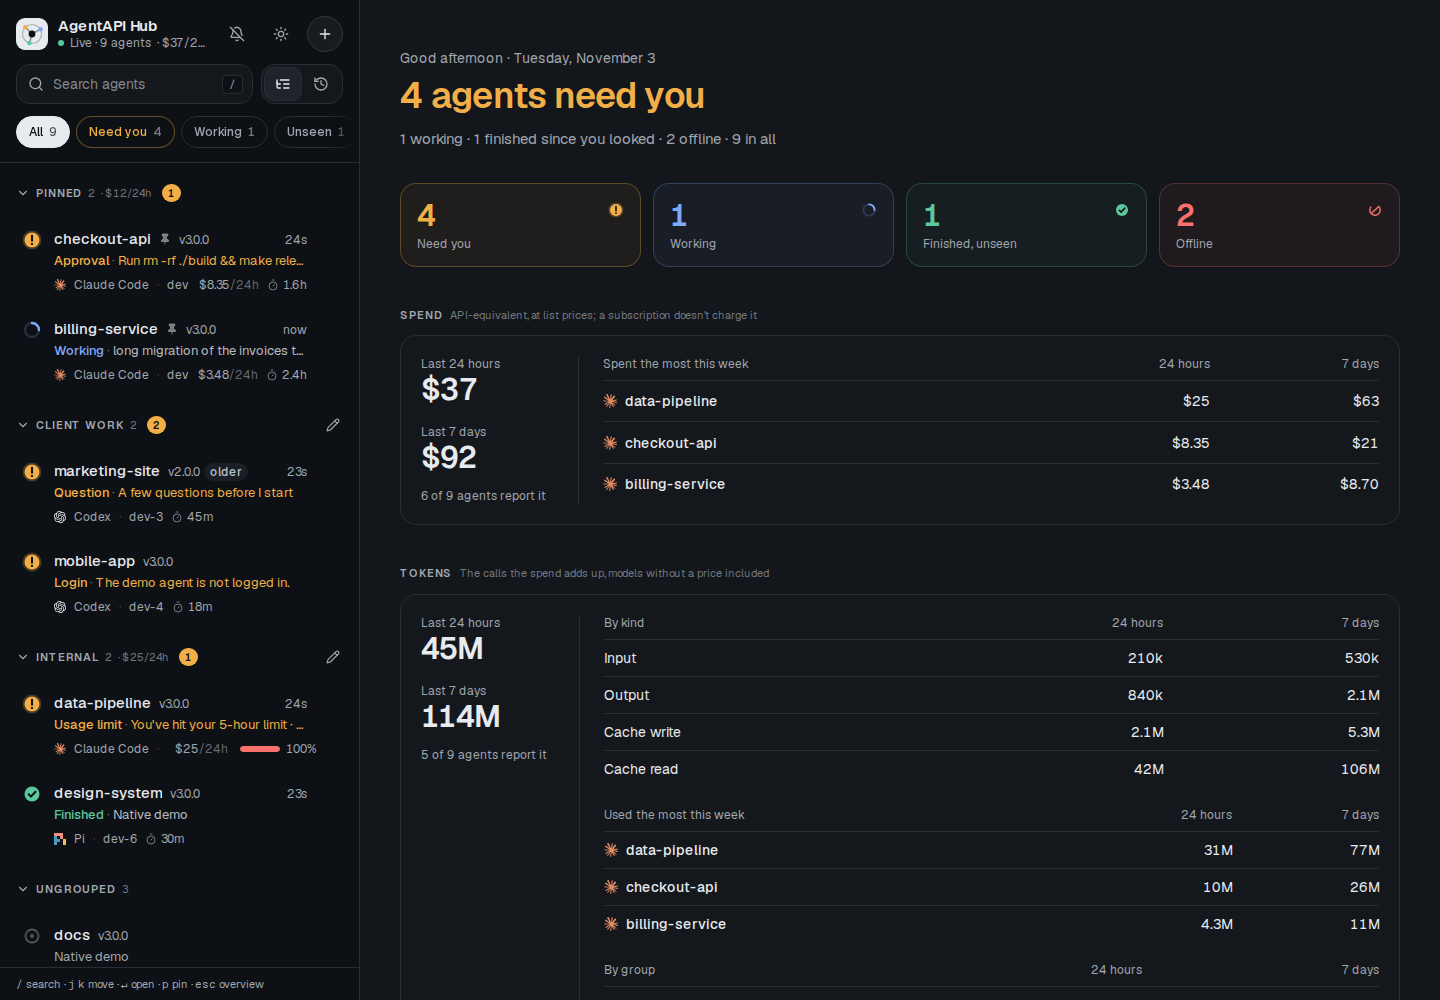
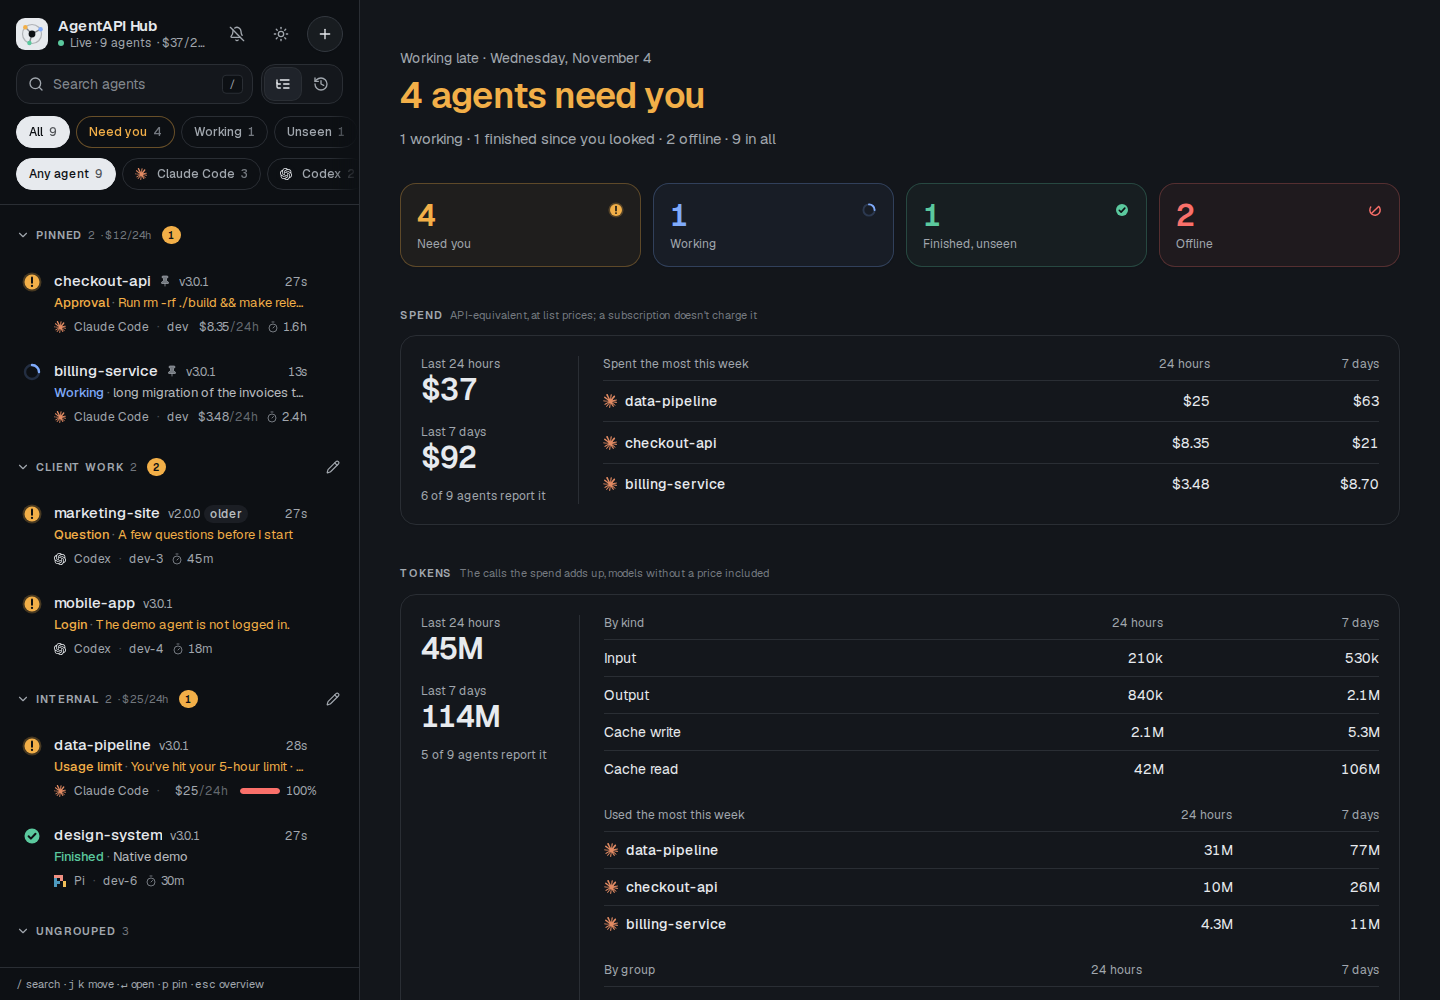
docs: retake the hub screenshots with the agent filter
Retake the hub views that show the list's header (and the versions
card, to keep the hub's version alike) with 3.0.1, and add
hub-agent-filter.png: the list filtered to Claude Code and Codex agents
that need you.

diff --git a/docs/screenshots/README.md b/docs/screenshots/README.md
@@ -2,7 +2,7 @@
 
 The [chat UI guide](../chat-ui.md) and [README](../../README.md) use these screenshots and GIFs.
 Chromium captured them from AgentAPI 3.0.0, built from the source with `make build`, serving the
-production chat UI and API.
+production chat UI and API; the hub's views that show its list, and its versions card, from 3.0.1.
 
 [scripts/capture-docs.mjs](../../scripts/capture-docs.mjs) starts its own servers on a small sample
 project, `my-app` (a page with a stylesheet, a script and release notes, two commits and
@@ -22,7 +22,7 @@ uncommitted changes):
   stopped and one was killed, so the hub can't reach it. Six are in two groups, and two of those
   are pinned to the top. The one that asks questions can run a binary stamped with an older
   version (`AGENTAPI_OLDER_BINARY`), so that it shows as older than the hub: 2.0.0 beside the
-  hub's 3.0.0 in the screenshots. The hub starts on a file that says how long each instance
+  hub's 3.0.1 in the screenshots. The hub starts on a file that says how long each instance
   worked over the last week, as a hub that watched them would keep it, since a demo doesn't run
   for hours. A second, empty hub shows the guide for the first agents. The rows name the machine;
   the screenshots show placeholders (`dev-1` and so on).
@@ -77,6 +77,7 @@ device scale factor of 1.
 | [hub-list.png](hub-list.png) | The hub's list: two pinned agents, then two groups and Ungrouped, with every state's glyph: approval, question, login, usage limit, working, finished, idle, unreachable, stopped; and each agent's AgentAPI version, one older than the hub |
 | [hub-add.png](hub-add.png) | The Add dialog: joining a machine (the hub's address, updates from the hub, the command and a prompt for an agent, the secret masked), or adding an instance by its URL and token |
 | [hub-recent.png](hub-recent.png) | The hub's list by the agents' latest changes: the pinned agents, then one list without group headers, the most recent first, and each row's group where it has room |
+| [hub-agent-filter.png](hub-agent-filter.png) | The hub's list filtered by agent and state: Claude Code and Codex, those that need you |
 | [hub-phone.png](hub-phone.png) | The hub's list on a phone: the pinned agents, then the groups |
 | [hub-phone-menu.png](hub-phone-menu.png) | A row's menu on a phone: Pin to top, its group, a new one, and Forget |
 | [hub-muted.png](hub-muted.png) | The list on a phone with an agent's login wait muted |
